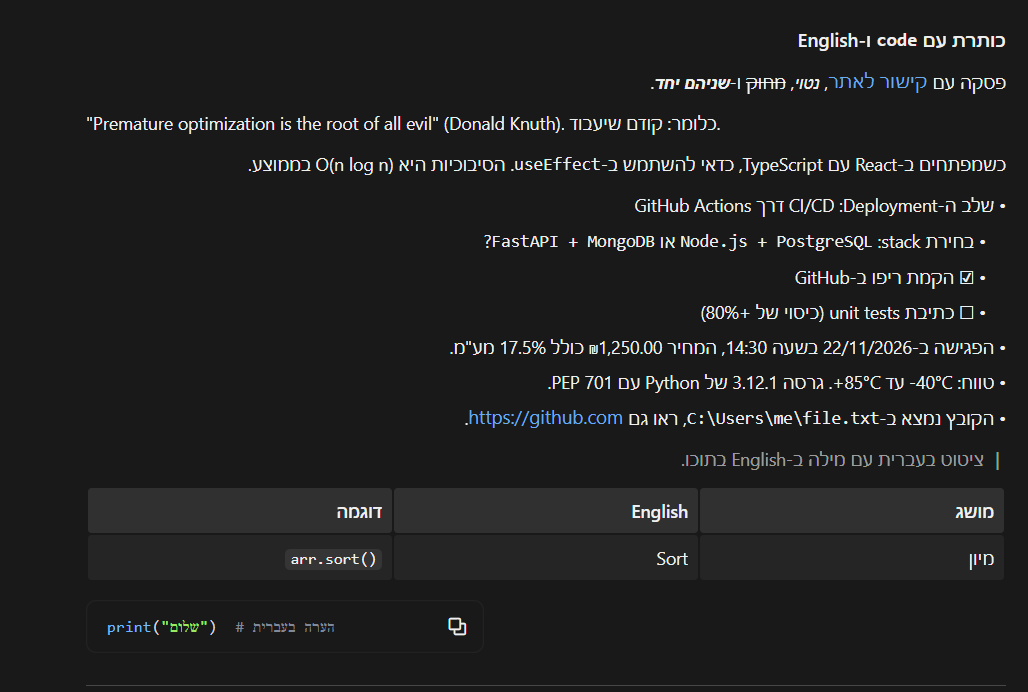
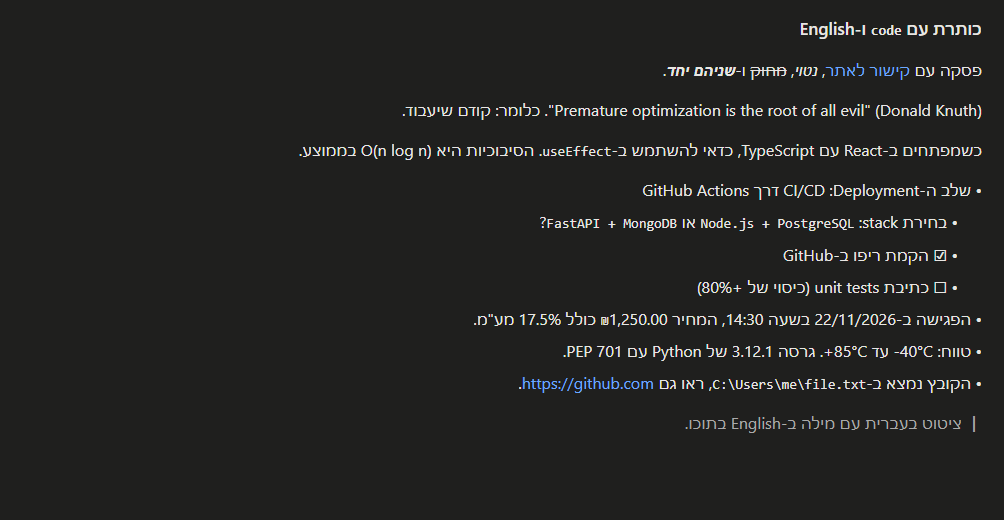
README: new after image, drawn with the current plugin

diff --git a/README.md b/README.md
@@ -18,6 +18,8 @@ Should also work for Arabic and Persian.
 
 ![אחרי: אותה תשובה עם התוסף, מימין לשמאל](docs/after.png)
 
+<sub>שתי התמונות מצוירות בדפדפן באותו עיצוב, עם אותו טקסט. התמונה של "אחרי" משתמשת בקוד של התוסף עצמו.</sub>
+
 ## התקנה
 
 צריך גרסה עדכנית של <span dir="ltr">Claude Code</span>. התוסף משתמש ביכולת חדשה, וגרסאות ישנות מתקינות אותו אבל לא מצליחות לטעון אותו. האפליקציה למחשב מתעדכנת לבד.
